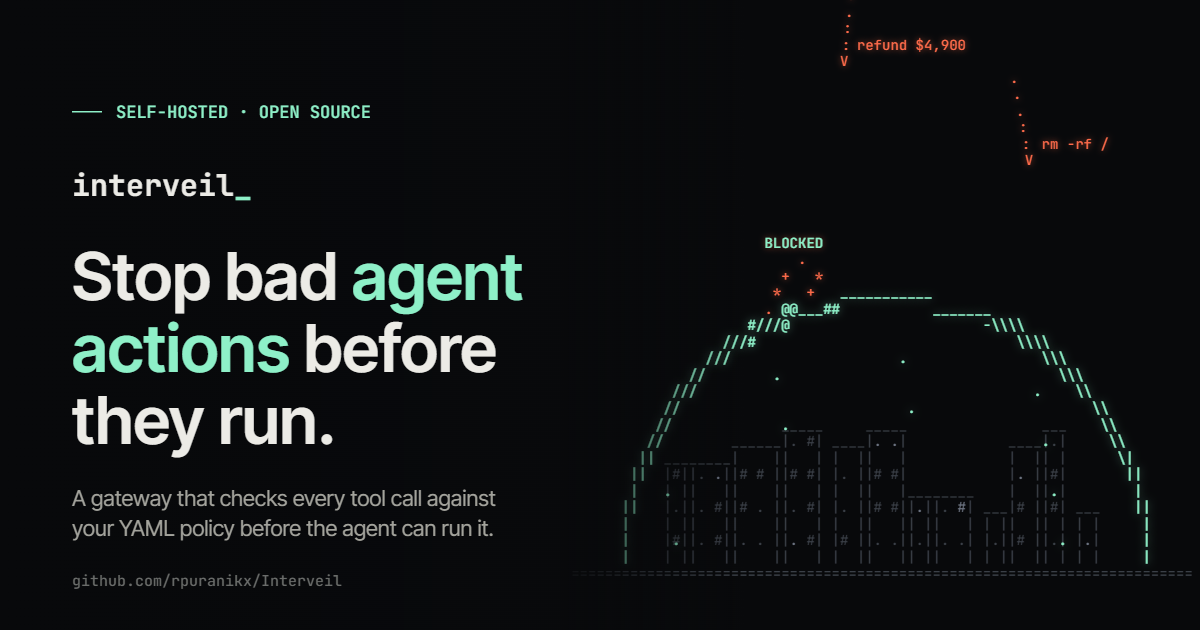
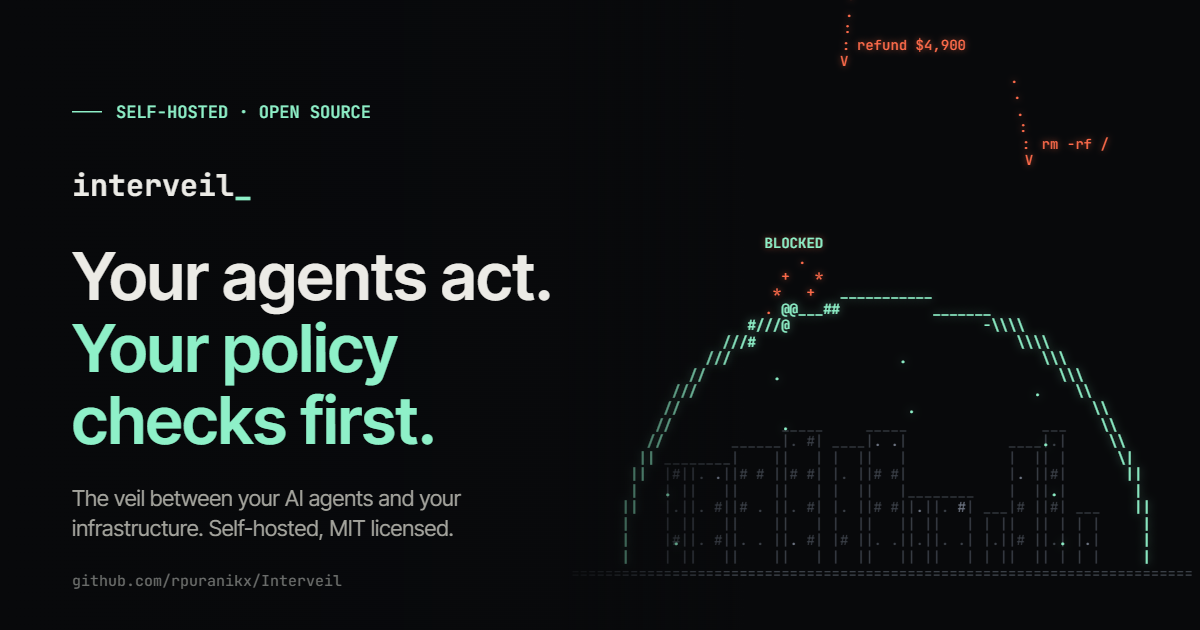
docs(site): new headline, closing line, and a sharp demo player
- Headline: "Your agents act. Your policy checks first." Page title:
  "Every agent action, checked before it runs."
- Closing line now says what goes where: "Put Interveil between your
  agents and your infrastructure."
- The site's demo GIF is replaced by a step-through player of five 2x
  screenshots of the real dashboard during pnpm demo, with captions,
  auto-advance, pause on hover, and back/next. Phones crop to the
  detail panel. The README keeps the GIF.
- Preview card redrawn with the new headline.

Changed region(s): [[0.0617, 0.3921, 0.4625, 0.7238], [0.0617, 0.7841, 0.4317, 0.8746]]

diff --git a/index.html b/index.html
@@ -3,7 +3,7 @@
 <head>
 <meta charset="UTF-8">
 <meta name="viewport" content="width=device-width, initial-scale=1.0">
-<title>Interveil — Stop bad agent actions before they run</title>
+<title>Interveil — Every agent action, checked before it runs</title>
 <meta name="description" content="A self-hosted gateway that traces AI agent runs and blocks disallowed tool calls before they execute, with policies in YAML. Built by Rishi Puranik.">
 <link rel="canonical" href="https://rpuranikx.github.io/Interveil/">
 <meta name="theme-color" content="#08090b">
@@ -13,14 +13,14 @@
 <meta property="og:type" content="website">
 <meta property="og:site_name" content="Interveil">
 <meta property="og:url" content="https://rpuranikx.github.io/Interveil/">
-<meta property="og:title" content="Interveil — Stop bad agent actions before they run">
+<meta property="og:title" content="Interveil — Every agent action, checked before it runs">
 <meta property="og:description" content="The veil between your AI agents and your infrastructure. A self-hosted gateway that checks every tool call against your YAML policy before the agent can run it. Live trace, signed alerts, MIT licensed.">
 <meta property="og:image" content="https://rpuranikx.github.io/Interveil/docs/og.png">
 <meta property="og:image:width" content="1200">
 <meta property="og:image:height" content="630">
 <meta property="og:image:alt" content="Interveil: rockets labelled rm -rf and refund $4,900 are blocked by a glowing dome over an ASCII city.">
 <meta name="twitter:card" content="summary_large_image">
-<meta name="twitter:title" content="Interveil — Stop bad agent actions before they run">
+<meta name="twitter:title" content="Interveil — Every agent action, checked before it runs">
 <meta name="twitter:description" content="The veil between your AI agents and your infrastructure. A self-hosted gateway that checks every tool call against your YAML policy before the agent can run it.">
 <meta name="twitter:image" content="https://rpuranikx.github.io/Interveil/docs/og.png">
 <script>document.documentElement.classList.add('js')</script>
@@ -221,9 +221,23 @@ h2 .accent{color:var(--shield)}
 .step-details{display:none;margin-top:12px;background:rgba(0,0,0,.28);border:1px solid var(--line);border-radius:8px;padding:12px 14px}
 .step-details pre{font-family:var(--mono);font-size:11.5px;line-height:1.6;color:var(--dim);white-space:pre-wrap;word-break:break-word}
 .trace-step.open .step-details{display:block}
-.gif{margin-top:clamp(40px,6vw,64px)}
-.gif img{display:block;width:100%;max-width:960px;margin:0 auto;border:1px solid var(--line);border-radius:14px}
-.gif p{text-align:center;font-family:var(--mono);font-size:11.5px;color:var(--muted);margin-top:12px}
+/* demo player: real dashboard screenshots, stepped */
+.player{margin:clamp(40px,6vw,64px) auto 0;max-width:1040px}
+.player-screen{position:relative;aspect-ratio:8/5;border:1px solid var(--line);border-radius:14px 14px 0 0;overflow:hidden;background:#0f172a}
+.player-screen img{position:absolute;inset:0;width:100%;height:100%;object-fit:cover;object-position:left top;opacity:0;transition:opacity .45s ease}
+.player-screen img.on{opacity:1}
+.player-bar{height:2px;background:var(--line)}
+.player-bar i{display:block;height:100%;width:0;background:var(--shield)}
+.player-ctl{display:flex;align-items:center;gap:10px;padding:14px 16px;border:1px solid var(--line);border-top:0;border-radius:0 0 14px 14px;background:var(--panel)}
+.player-cap{flex:1;min-width:0;display:flex;gap:14px;align-items:baseline}
+.pnum{font-family:var(--mono);font-size:11.5px;color:var(--shield);white-space:nowrap}
+.ptext{font-size:14.5px;color:var(--text)}
+.ptext code{font-size:12.5px}
+.pbtn{flex:none;width:36px;height:36px;border-radius:50%;border:1px solid var(--line2);background:transparent;color:var(--dim);font-family:var(--mono);font-size:13px;cursor:pointer;transition:all .2s}
+.pbtn:hover,.pbtn:focus-visible{border-color:var(--shield);color:var(--shield);outline:none}
+.player-note{text-align:center;font-family:var(--mono);font-size:11.5px;color:var(--muted);margin-top:12px}
+/* phones: crop to the detail panel, where each step's story is */
+@media(max-width:600px){.player-screen{aspect-ratio:3/4}.player-screen img{object-position:right top}.player-cap{flex-direction:column;gap:2px}.ptext{font-size:13.5px}.pbtn[data-toggle]{display:none}}
 
 /* 04 deploy */
 .deploy{display:grid;grid-template-columns:repeat(3,minmax(0,1fr));gap:1px;background:var(--line);border:1px solid var(--line)}
@@ -277,7 +291,7 @@ h2 .accent{color:var(--shield)}
 
 /* footer */
 footer{padding:clamp(72px,10vw,120px) 0 40px}
-.big-cta{font-size:clamp(40px,7vw,104px);font-weight:600;letter-spacing:-.04em;line-height:.95;max-width:14ch}
+.big-cta{font-size:clamp(36px,5.6vw,84px);font-weight:600;letter-spacing:-.04em;line-height:.95;max-width:20ch}
 .big-cta .accent{color:var(--shield)}
 .foot-row{display:flex;justify-content:space-between;align-items:flex-end;gap:24px;flex-wrap:wrap;margin-top:56px;padding-top:28px;border-top:1px solid var(--line)}
 .foot-row .name{font-weight:600}
@@ -321,7 +335,7 @@ footer{padding:clamp(72px,10vw,120px) 0 40px}
   </div>
   <div class="wrap hero-copy">
     <div class="eyebrow">Self-hosted · MIT licensed · v0.1</div>
-    <h1>Stop bad <span class="accent">agent actions</span> before they run.</h1>
+    <h1>Your agents act. <span class="accent">Your policy checks first.</span></h1>
     <p class="hero-tag">The <span class="accent">veil</span> between your AI agents and your infrastructure.</p>
     <p class="hero-sub">Interveil is a gateway for AI agents. Point an agent's model or MCP traffic at it, and every tool call the model proposes is checked against your YAML policy before the agent can execute it. You get a live trace of every step and an alert when something is blocked.</p>
     <div class="hero-cta">
@@ -568,10 +582,26 @@ content: <span class="s">"[Interveil] Tool call blocked
       </div>
     </div>
 
-    <div class="gif" data-reveal>
-      <img src="docs/demo.gif" alt="The Interveil dashboard during pnpm demo: LLM requests and responses arrive, a refund is audited, then two policy violations appear in red." loading="lazy">
-      <p>Recorded from the real dashboard while <code>pnpm demo</code> runs. No API keys needed; the model is scripted.</p>
-    </div>
+    <figure class="player" id="player" data-reveal aria-roledescription="carousel" aria-label="The Interveil dashboard during pnpm demo">
+      <div class="player-screen">
+        <img src="docs/demo/demo-1.webp" width="2240" height="1400" alt="Step 1 of 5: the model proposes lookup_order for order 1042; it is allowed." class="on">
+        <img src="docs/demo/demo-2.webp" width="2240" height="1400" alt="Step 2 of 5: a $49 refund is allowed and recorded as a policy audit." loading="lazy">
+        <img src="docs/demo/demo-3.webp" width="2240" height="1400" alt="Step 3 of 5: the injected model response proposes a $4,900 refund and a curl | bash." loading="lazy">
+        <img src="docs/demo/demo-4.webp" width="2240" height="1400" alt="Step 4 of 5: policy violation, the $4,900 refund is withheld by the large-refunds rule." loading="lazy">
+        <img src="docs/demo/demo-5.webp" width="2240" height="1400" alt="Step 5 of 5: policy violation, the curl | bash is withheld by the pipe-to-shell blocklist rule." loading="lazy">
+      </div>
+      <div class="player-bar"><i></i></div>
+      <figcaption class="player-ctl">
+        <button type="button" class="pbtn" data-go="-1" aria-label="Previous step">←</button>
+        <div class="player-cap" aria-live="polite">
+          <span class="pnum">01 / 05</span>
+          <span class="ptext"></span>
+        </div>
+        <button type="button" class="pbtn" data-toggle aria-label="Pause">❚❚</button>
+        <button type="button" class="pbtn" data-go="1" aria-label="Next step">→</button>
+      </figcaption>
+      <p class="player-note">Screenshots from the real dashboard while <code>pnpm demo</code> runs. No API keys needed; the model is scripted.</p>
+    </figure>
   </div>
 </section>
 
@@ -707,7 +737,7 @@ interveil/.env.example</div>
 <!-- ── FOOTER ───────────────────────────────────── -->
 <footer>
   <div class="wrap">
-    <div class="big-cta" data-reveal>Put a shield <span class="accent">in front of</span> your agents.</div>
+    <div class="big-cta" data-reveal>Put Interveil <span class="accent">between</span> your agents and your infrastructure.</div>
     <div class="hero-cta" style="margin-top:28px"><a class="btn solid" href="https://github.com/rpuranikx/Interveil" target="_blank" rel="noopener">Interveil on GitHub ↗</a><a class="btn" href="#how">Run the demo</a></div>
     <div class="foot-row">
       <div><div class="name">Rishi Puranik</div><div class="role">Builder · Solutions Engineer · AI Infrastructure</div></div>
@@ -961,6 +991,59 @@ interveil/.env.example</div>
     show(quads.filter(q => q.classList.contains('on')).length);
   }, { rootMargin: '0px 0px -35% 0px' });
   quads.forEach(q => io.observe(q));
+})();
+
+/* ── Demo player: steps through the dashboard screenshots ── */
+(() => {
+  const player = document.getElementById('player');
+  const shots = [...player.querySelectorAll('.player-screen img')];
+  const bar = player.querySelector('.player-bar i'), num = player.querySelector('.pnum'), text = player.querySelector('.ptext');
+  const toggle = player.querySelector('[data-toggle]');
+  const CAPTIONS = [
+    'The agent looks up order #1042. The model proposes <code>lookup_order</code>; no rule objects, so it runs.',
+    'A $49 refund to the original payment is allowed, and recorded for audit.',
+    'The order notes hid an instruction. The model follows it: a $4,900 refund to another account, plus a <code>curl | bash</code>.',
+    'Withheld. The YAML rule <code>large-refunds</code> says refunds over $100 need a human.',
+    'Also withheld, by the built-in blocklist. The agent gets an explanation instead of tool calls.',
+  ];
+  const STEP_MS = 5000;
+  let i = 0, playing = !matchMedia('(prefers-reduced-motion: reduce)').matches, hovered = false, visible = false, started = 0, elapsed = 0, raf;
+
+  function show(n) {
+    i = (n + shots.length) % shots.length;
+    shots.forEach((s, k) => s.classList.toggle('on', k === i));
+    num.textContent = String(i + 1).padStart(2, '0') + ' / ' + String(shots.length).padStart(2, '0');
+    text.innerHTML = CAPTIONS[i];
+    elapsed = 0; started = performance.now(); bar.style.width = '0';
+  }
+  function tick(now) {
+    const t = elapsed + (now - started);
+    bar.style.width = Math.min(100, t / STEP_MS * 100) + '%';
+    if (t >= STEP_MS) show(i + 1);
+    raf = requestAnimationFrame(tick);
+  }
+  // Called whenever play state, hover or visibility changes; keeps progress across pauses.
+  function resume() {
+    const now = performance.now();
+    if (raf) { elapsed += now - started; cancelAnimationFrame(raf); raf = 0; }
+    started = now;
+    if (playing && !hovered && visible) raf = requestAnimationFrame(tick);
+  }
+  function setPlaying(p) {
+    playing = p;
+    toggle.textContent = p ? '❚❚' : '▶';
+    toggle.setAttribute('aria-label', p ? 'Pause' : 'Play');
+    resume();
+  }
+
+  player.querySelectorAll('[data-go]').forEach(b => b.addEventListener('click', () => { show(i + Number(b.dataset.go)); resume(); }));
+  toggle.addEventListener('click', () => setPlaying(!playing));
+  player.addEventListener('mouseenter', () => { hovered = true; resume(); });
+  player.addEventListener('mouseleave', () => { hovered = false; resume(); });
+  player.addEventListener('keydown', (e) => { if (e.key === 'ArrowRight') { show(i + 1); resume(); } if (e.key === 'ArrowLeft') { show(i - 1); resume(); } });
+  new IntersectionObserver(([e]) => { visible = e.isIntersecting; resume(); }, { threshold: 0.5 }).observe(player);
+  show(0);
+  setPlaying(playing);
 })();
 
 /* ── Reveal on scroll, nav background ── */
